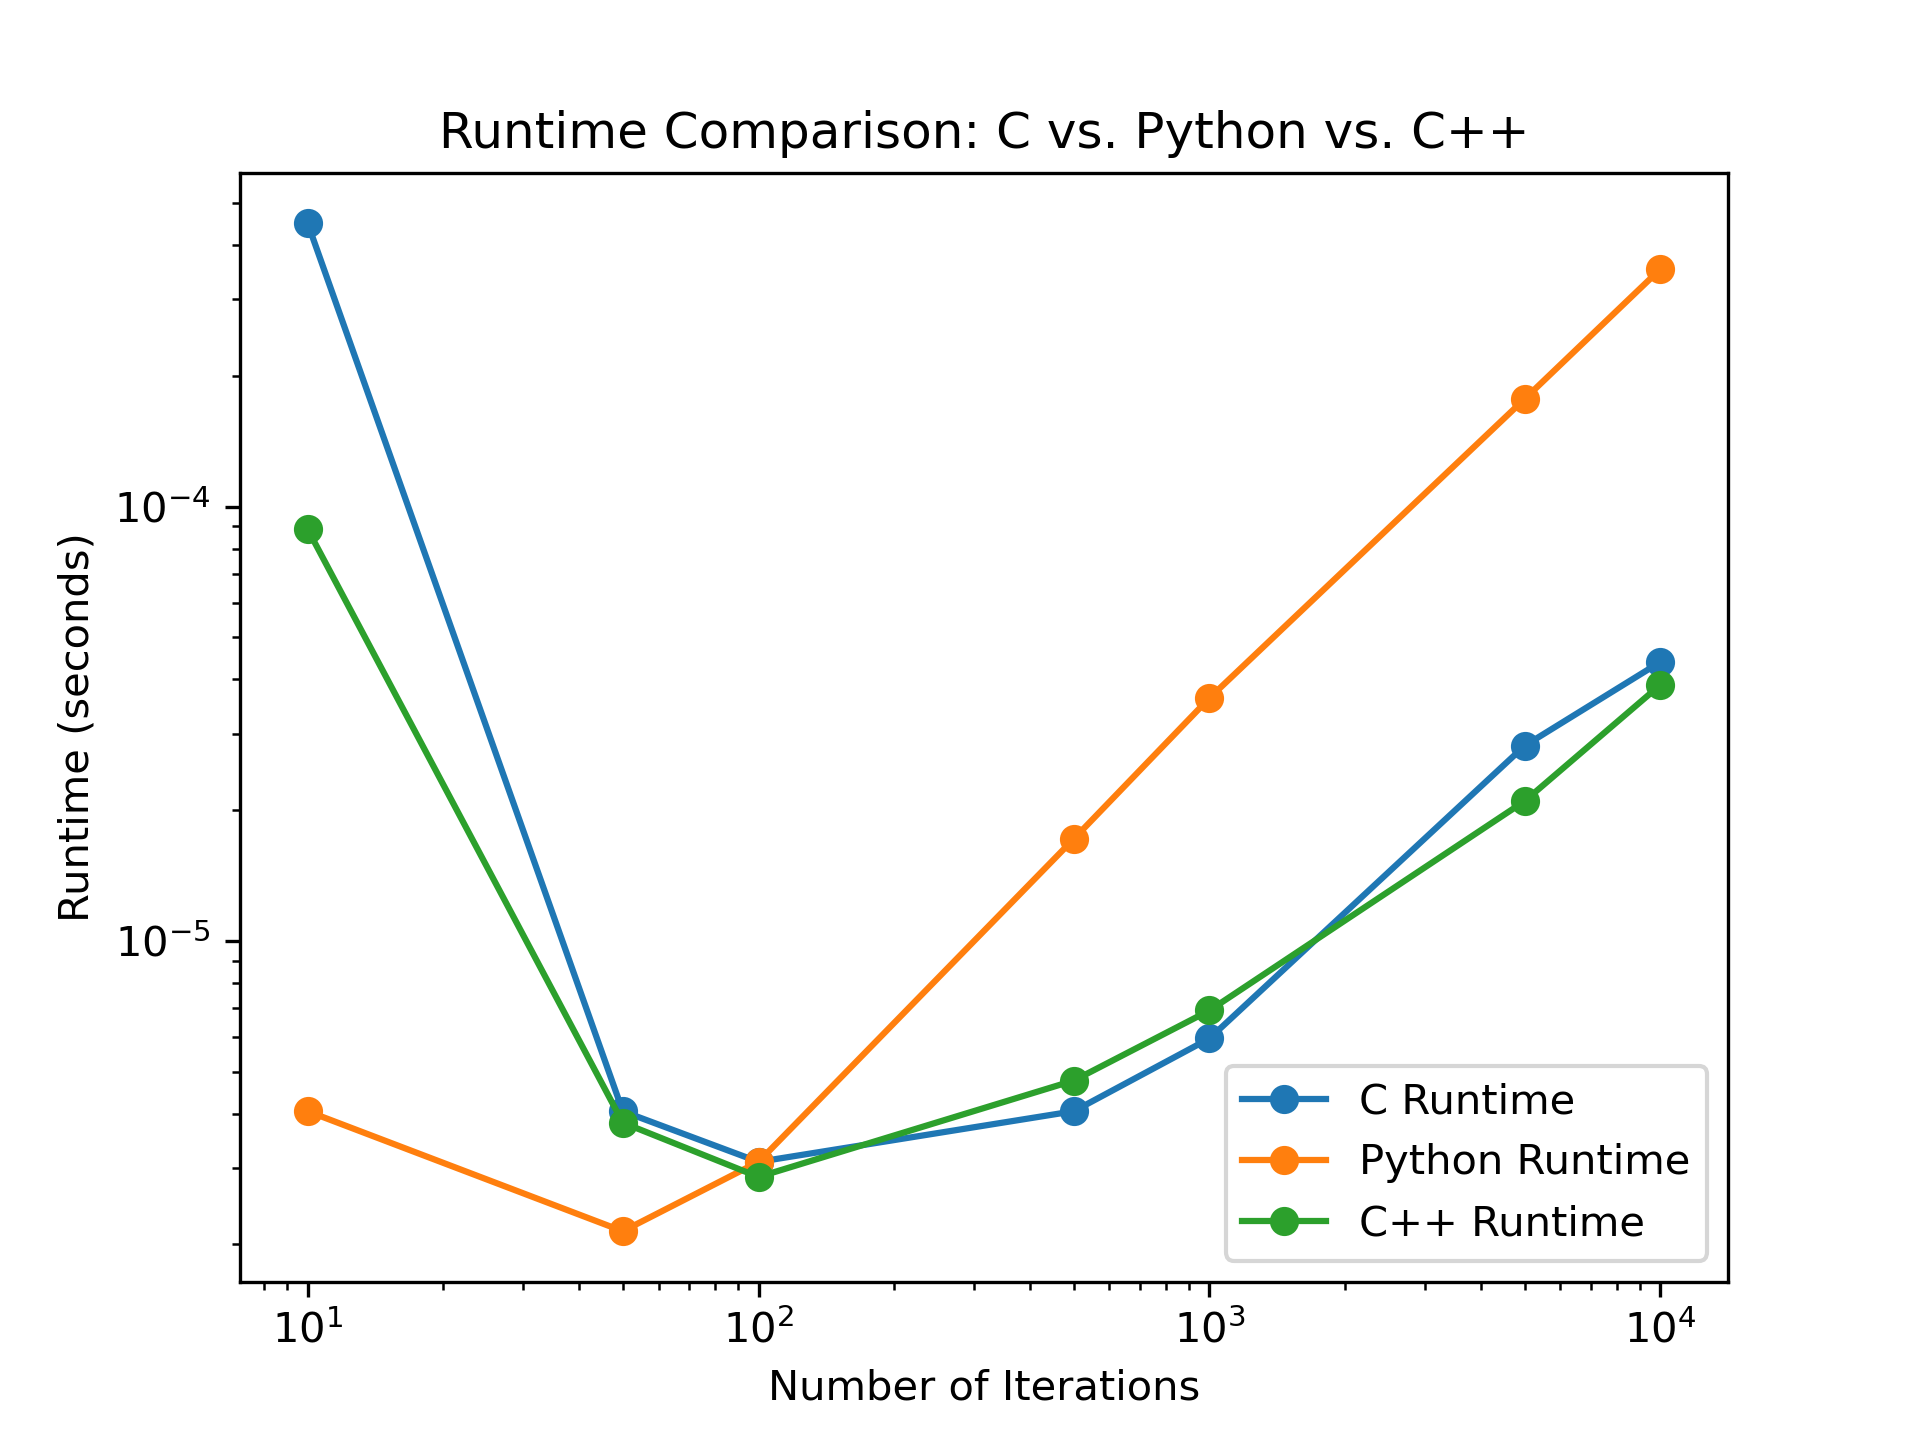
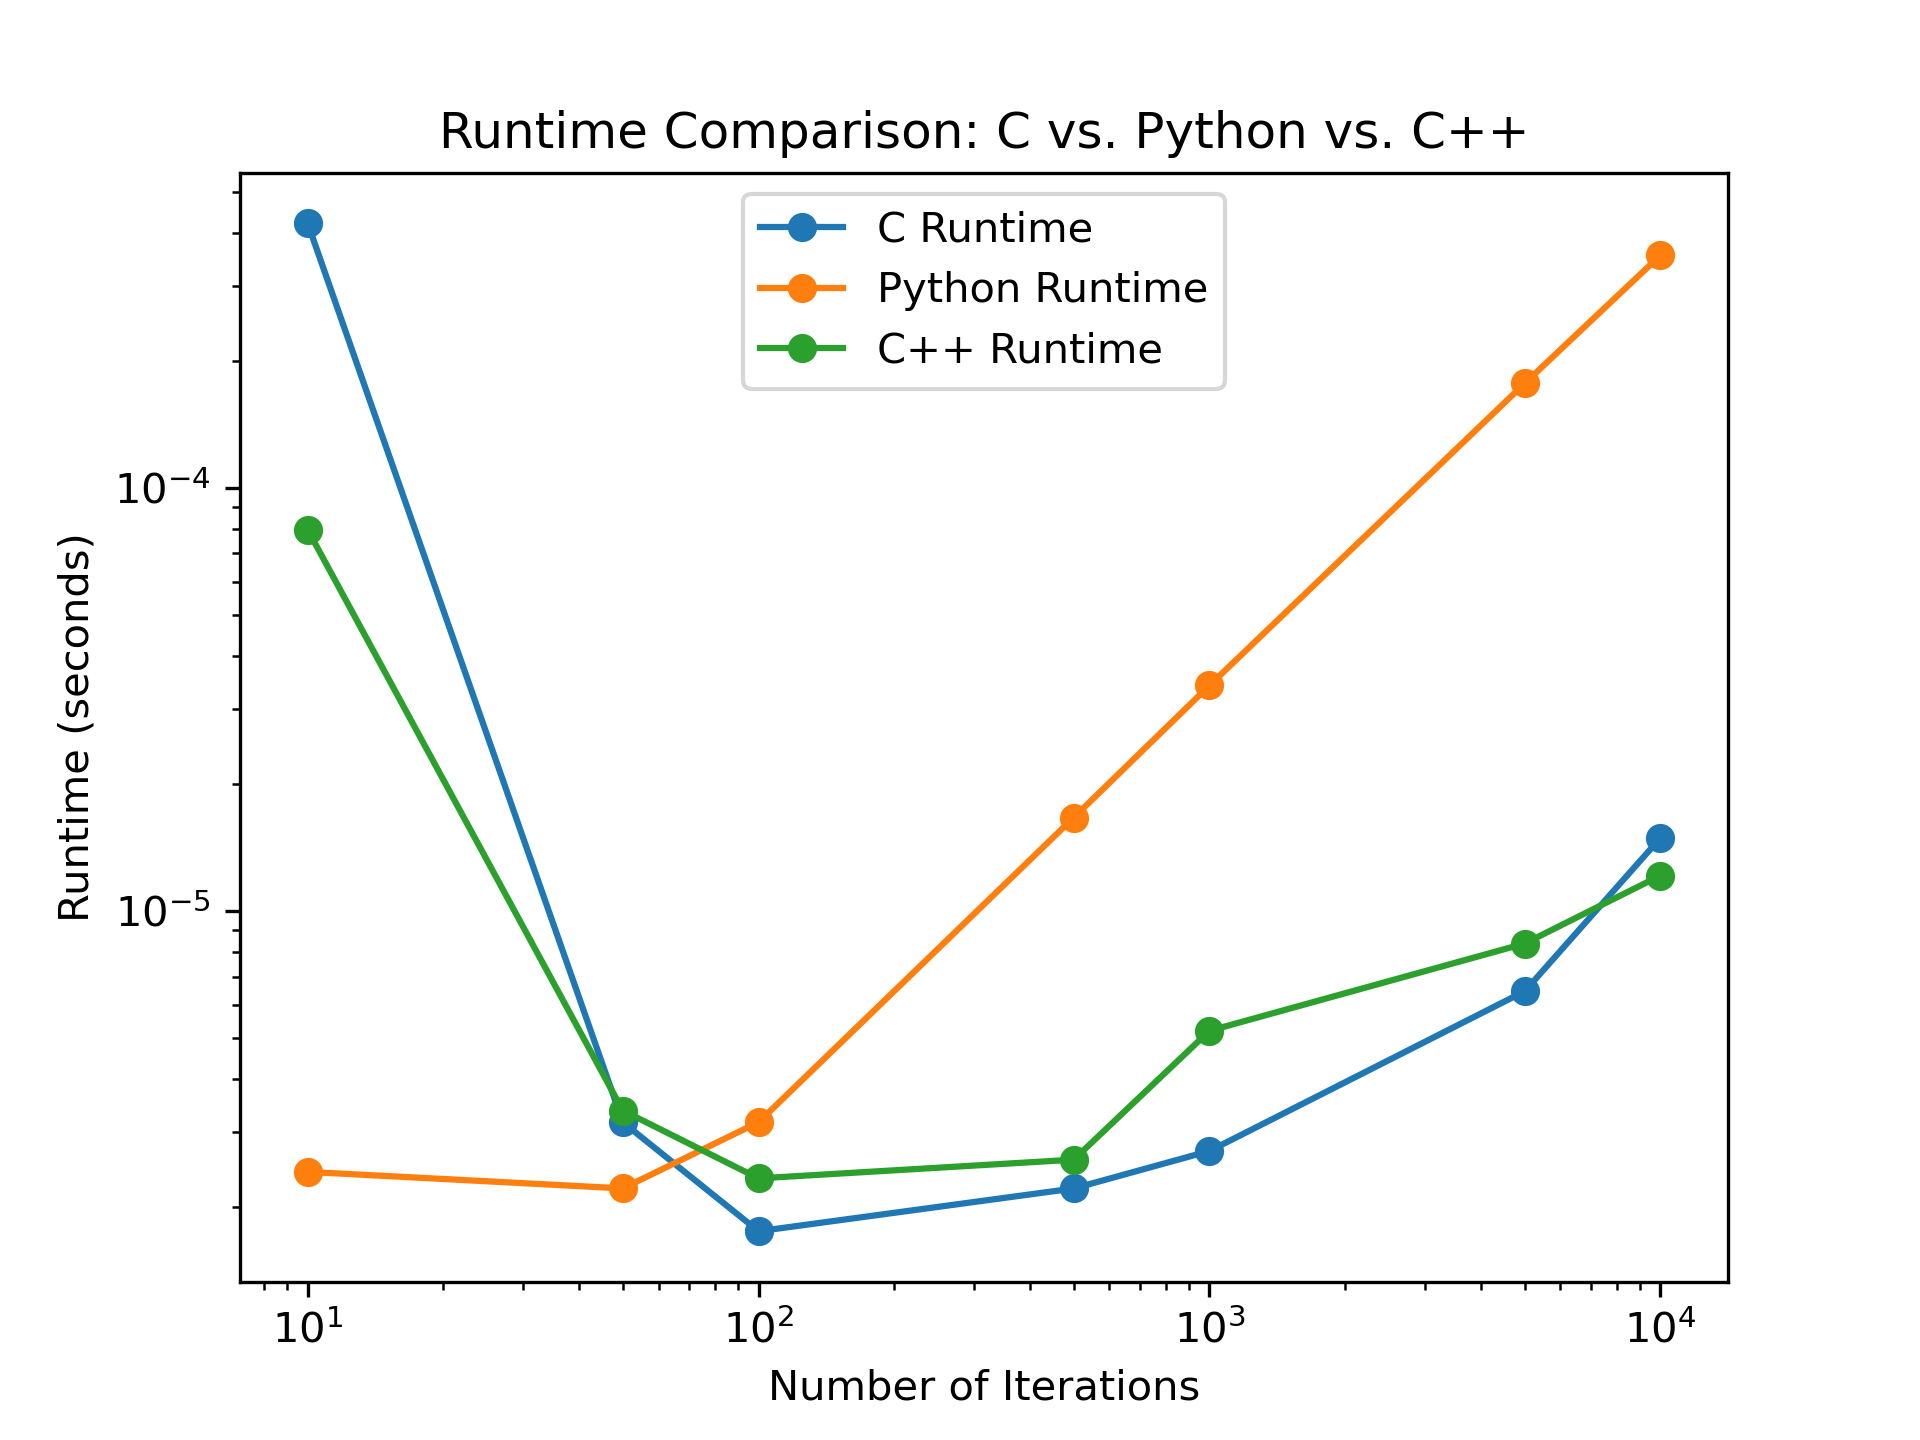
updated scripts and src files

diff --git a/scripts/compare_runtime.py b/scripts/compare_runtime.py
@@ -2,50 +2,67 @@ import ctypes
 import os
 import time
 
-# Dynamically compute the absolute paths to the .so files
-current_dir = os.path.dirname(__file__)  # Get the directory of the current script
+# Paths to shared libraries
+current_dir = os.path.dirname(__file__)
 loop_so_path = os.path.join(current_dir, '../compiled/loop.so')
 loop_cpp_so_path = os.path.join(current_dir, '../compiled/loop_cpp.so')
 
-# Load the shared libraries
+# Load shared libraries
 loop_c = ctypes.CDLL(loop_so_path)
 loop_cpp = ctypes.CDLL(loop_cpp_so_path)
 
-# Define function arguments and return types
+# Define argument and return types
 loop_c.perform_loop.argtypes = [ctypes.c_int, ctypes.c_double]
-loop_c.perform_loop.restype = None
+loop_c.perform_loop.restype = ctypes.c_double
 
 loop_cpp.perform_loop.argtypes = [ctypes.c_int, ctypes.c_double]
-loop_cpp.perform_loop.restype = None
+loop_cpp.perform_loop.restype = ctypes.c_double
 
-# Compare runtimes for C and Python
-def compare_runtimes():
-    iterations = 10000
-    seed = 1.00001
-
-    # Measure C runtime
-    print("Running loop in C...")
-    start_c = time.time()
-    loop_c.perform_loop(iterations, seed)
-    end_c = time.time()
-    print(f"C function runtime: {end_c - start_c:.6f} seconds")
-
-    # Measure Python runtime
-    print("\nRunning loop in Python...")
-    start_py = time.time()
+# Python function
+def python_loop(iterations, seed):
     result = seed
     for _ in range(iterations):
         result += 1
-    end_py = time.time()
-    print(f"Python function runtime: {end_py - start_py:.6f} seconds")
-    print(f"Final result after {iterations} iterations in Python: {result}")
+    return result
 
-    # Measure C++ runtime
-    print("\nRunning loop in C++...")
-    start_cpp = time.time()
-    loop_cpp.perform_loop(iterations, seed)
-    end_cpp = time.time()
-    print(f"C++ function runtime: {end_cpp - start_cpp:.6f} seconds")
+# Compare runtimes
+def compare_runtimes():
+    iterations = 10000
+    seed = 1.00001
+    num_runs = 100  # Averaging over 100 runs
+
+    # C runtime
+    print("Running loop in C...")
+    total_c_time = 0
+    for _ in range(num_runs):
+        start_time = time.perf_counter()
+        result_c = loop_c.perform_loop(iterations, seed)
+        total_c_time += time.perf_counter() - start_time
+    avg_c_time = total_c_time / num_runs
+    print(f"Final result after {iterations} iterations: {result_c:.6f}")
+    print(f"Average C runtime over {num_runs} runs: {avg_c_time:.6f} seconds\n")
+
+    # Python runtime
+    print("Running loop in Python...")
+    total_py_time = 0
+    for _ in range(num_runs):
+        start_time = time.perf_counter()
+        result_py = python_loop(iterations, seed)
+        total_py_time += time.perf_counter() - start_time
+    avg_py_time = total_py_time / num_runs
+    print(f"Final result after {iterations} iterations: {result_py:.6f}")
+    print(f"Average Python runtime over {num_runs} runs: {avg_py_time:.6f} seconds\n")
+
+    # C++ runtime
+    print("Running loop in C++...")
+    total_cpp_time = 0
+    for _ in range(num_runs):
+        start_time = time.perf_counter()
+        result_cpp = loop_cpp.perform_loop(iterations, seed)
+        total_cpp_time += time.perf_counter() - start_time
+    avg_cpp_time = total_cpp_time / num_runs
+    print(f"Final result after {iterations} iterations: {result_cpp:.6f}")
+    print(f"Average C++ runtime over {num_runs} runs: {avg_cpp_time:.6f} seconds\n")
 
 if __name__ == "__main__":
     compare_runtimes()

diff --git a/scripts/compare_runtime_plot.py b/scripts/compare_runtime_plot.py
@@ -3,10 +3,10 @@ import os
 import time
 import matplotlib.pyplot as plt
 
-# Dynamically compute the absolute paths to the .so files
-current_dir = os.path.dirname(__file__)  # Get the directory of the current script
-loop_so_path = os.path.join(current_dir, '../compiled/loop.so')  # Path to loop.so
-loop_cpp_so_path = os.path.join(current_dir, '../compiled/loop_cpp.so')  # Path to loop_cpp.so
+# Dynamically compute paths to the shared libraries
+current_dir = os.path.dirname(__file__)
+loop_so_path = os.path.join(current_dir, '../compiled/loop.so')
+loop_cpp_so_path = os.path.join(current_dir, '../compiled/loop_cpp.so')
 
 # Load the shared libraries
 loop_c = ctypes.CDLL(loop_so_path)
@@ -19,14 +19,14 @@ loop_c.perform_loop.restype = None
 loop_cpp.perform_loop.argtypes = [ctypes.c_int, ctypes.c_double]
 loop_cpp.perform_loop.restype = None
 
-# Function to run the loop in Python
+# Python loop logic
 def python_loop(iterations, seed):
     result = seed
     for _ in range(iterations):
         result += 1
     return result
 
-# Runtime comparison for various iteration counts
+# Compare runtimes for varying iteration counts
 iteration_values = [10, 50, 100, 500, 1000, 5000, 10000]
 runtimes_c = []
 runtimes_python = []
@@ -36,24 +36,24 @@ seed = 1.00001
 
 for iterations in iteration_values:
     # Measure C runtime
-    start_c = time.time()
+    start_c = time.perf_counter()
     loop_c.perform_loop(iterations, seed)
-    end_c = time.time()
+    end_c = time.perf_counter()
     runtimes_c.append(end_c - start_c)
 
     # Measure Python runtime
-    start_py = time.time()
+    start_py = time.perf_counter()
     python_loop(iterations, seed)
-    end_py = time.time()
+    end_py = time.perf_counter()
     runtimes_python.append(end_py - start_py)
 
     # Measure C++ runtime
-    start_cpp = time.time()
+    start_cpp = time.perf_counter()
     loop_cpp.perform_loop(iterations, seed)
-    end_cpp = time.time()
+    end_cpp = time.perf_counter()
     runtimes_cpp.append(end_cpp - start_cpp)
 
-# Plotting the runtimes
+# Plot the runtimes
 plt.figure()
 plt.plot(iteration_values, runtimes_c, label="C Runtime", marker='o')
 plt.plot(iteration_values, runtimes_python, label="Python Runtime", marker='o')

diff --git a/wrappers/big_loop_wrapper.py b/wrappers/big_loop_wrapper.py
@@ -1,26 +1,28 @@
 import ctypes
 import os
+import time
 
-# Dynamically compute the absolute path to the .so file
-current_dir = os.path.dirname(__file__)  # Get the directory of the current script
-so_path = os.path.join(current_dir, '../compiled/big_loop.so')  # Path to .so file
+# Dynamically compute the path to the shared library
+current_dir = os.path.dirname(__file__)
+so_path = os.path.join(current_dir, '../compiled/big_loop.so')
 
 # Load the shared library
 big_loop = ctypes.CDLL(so_path)
 
-# Example function call (adjust as needed)
 def run_big_loop():
     print("Running big loop...")
-
-    # Define function arguments and return types
     big_loop.perform_loop.argtypes = [ctypes.c_int, ctypes.c_double]
     big_loop.perform_loop.restype = None
 
-    # Call the function (example: 10000 iterations and seed 1.00001)
     iterations = 10000
     seed = 1.00001
+
+    # Time the function
+    start = time.perf_counter()
     big_loop.perform_loop(iterations, seed)
-    print("Big loop completed.")
+    end = time.perf_counter()
+
+    print(f"Big loop runtime: {end - start:.6f} seconds")
 
 if __name__ == "__main__":
     run_big_loop()

diff --git a/src/loop.cpp b/src/loop.cpp
@@ -1,10 +1,11 @@
 #include <iostream>
-using namespace std;
 
-extern "C" void perform_loop(int iterations, double seed) {
+// Perform loop function
+extern "C" double perform_loop(int iterations, double seed) {
     double result = seed;
     for (int i = 0; i < iterations; i++) {
-        result = result + 1;  // Adjusted formula to prevent overflow
+        result += 1.0;  // Increment result
     }
-    cout << "Final result after " << iterations << " iterations: " << result << endl;
+    // Only return the final result, do not print inside the loop
+    return result;
 }

diff --git a/src/loop.c b/src/loop.c
@@ -1,9 +1,11 @@
 #include <stdio.h>
 
-void perform_loop(int iterations, double seed) {
+// Perform loop function
+double perform_loop(int iterations, double seed) {
     double result = seed;
     for (int i = 0; i < iterations; i++) {
-        result = result + 1;  // Adjusted formula to prevent overflow
+        result += 1.0;  // Increment result
     }
-    printf("Final result after %d iterations: %f\n", iterations, result);
+    // Only return the final result, do not print inside the loop
+    return result;
 }
